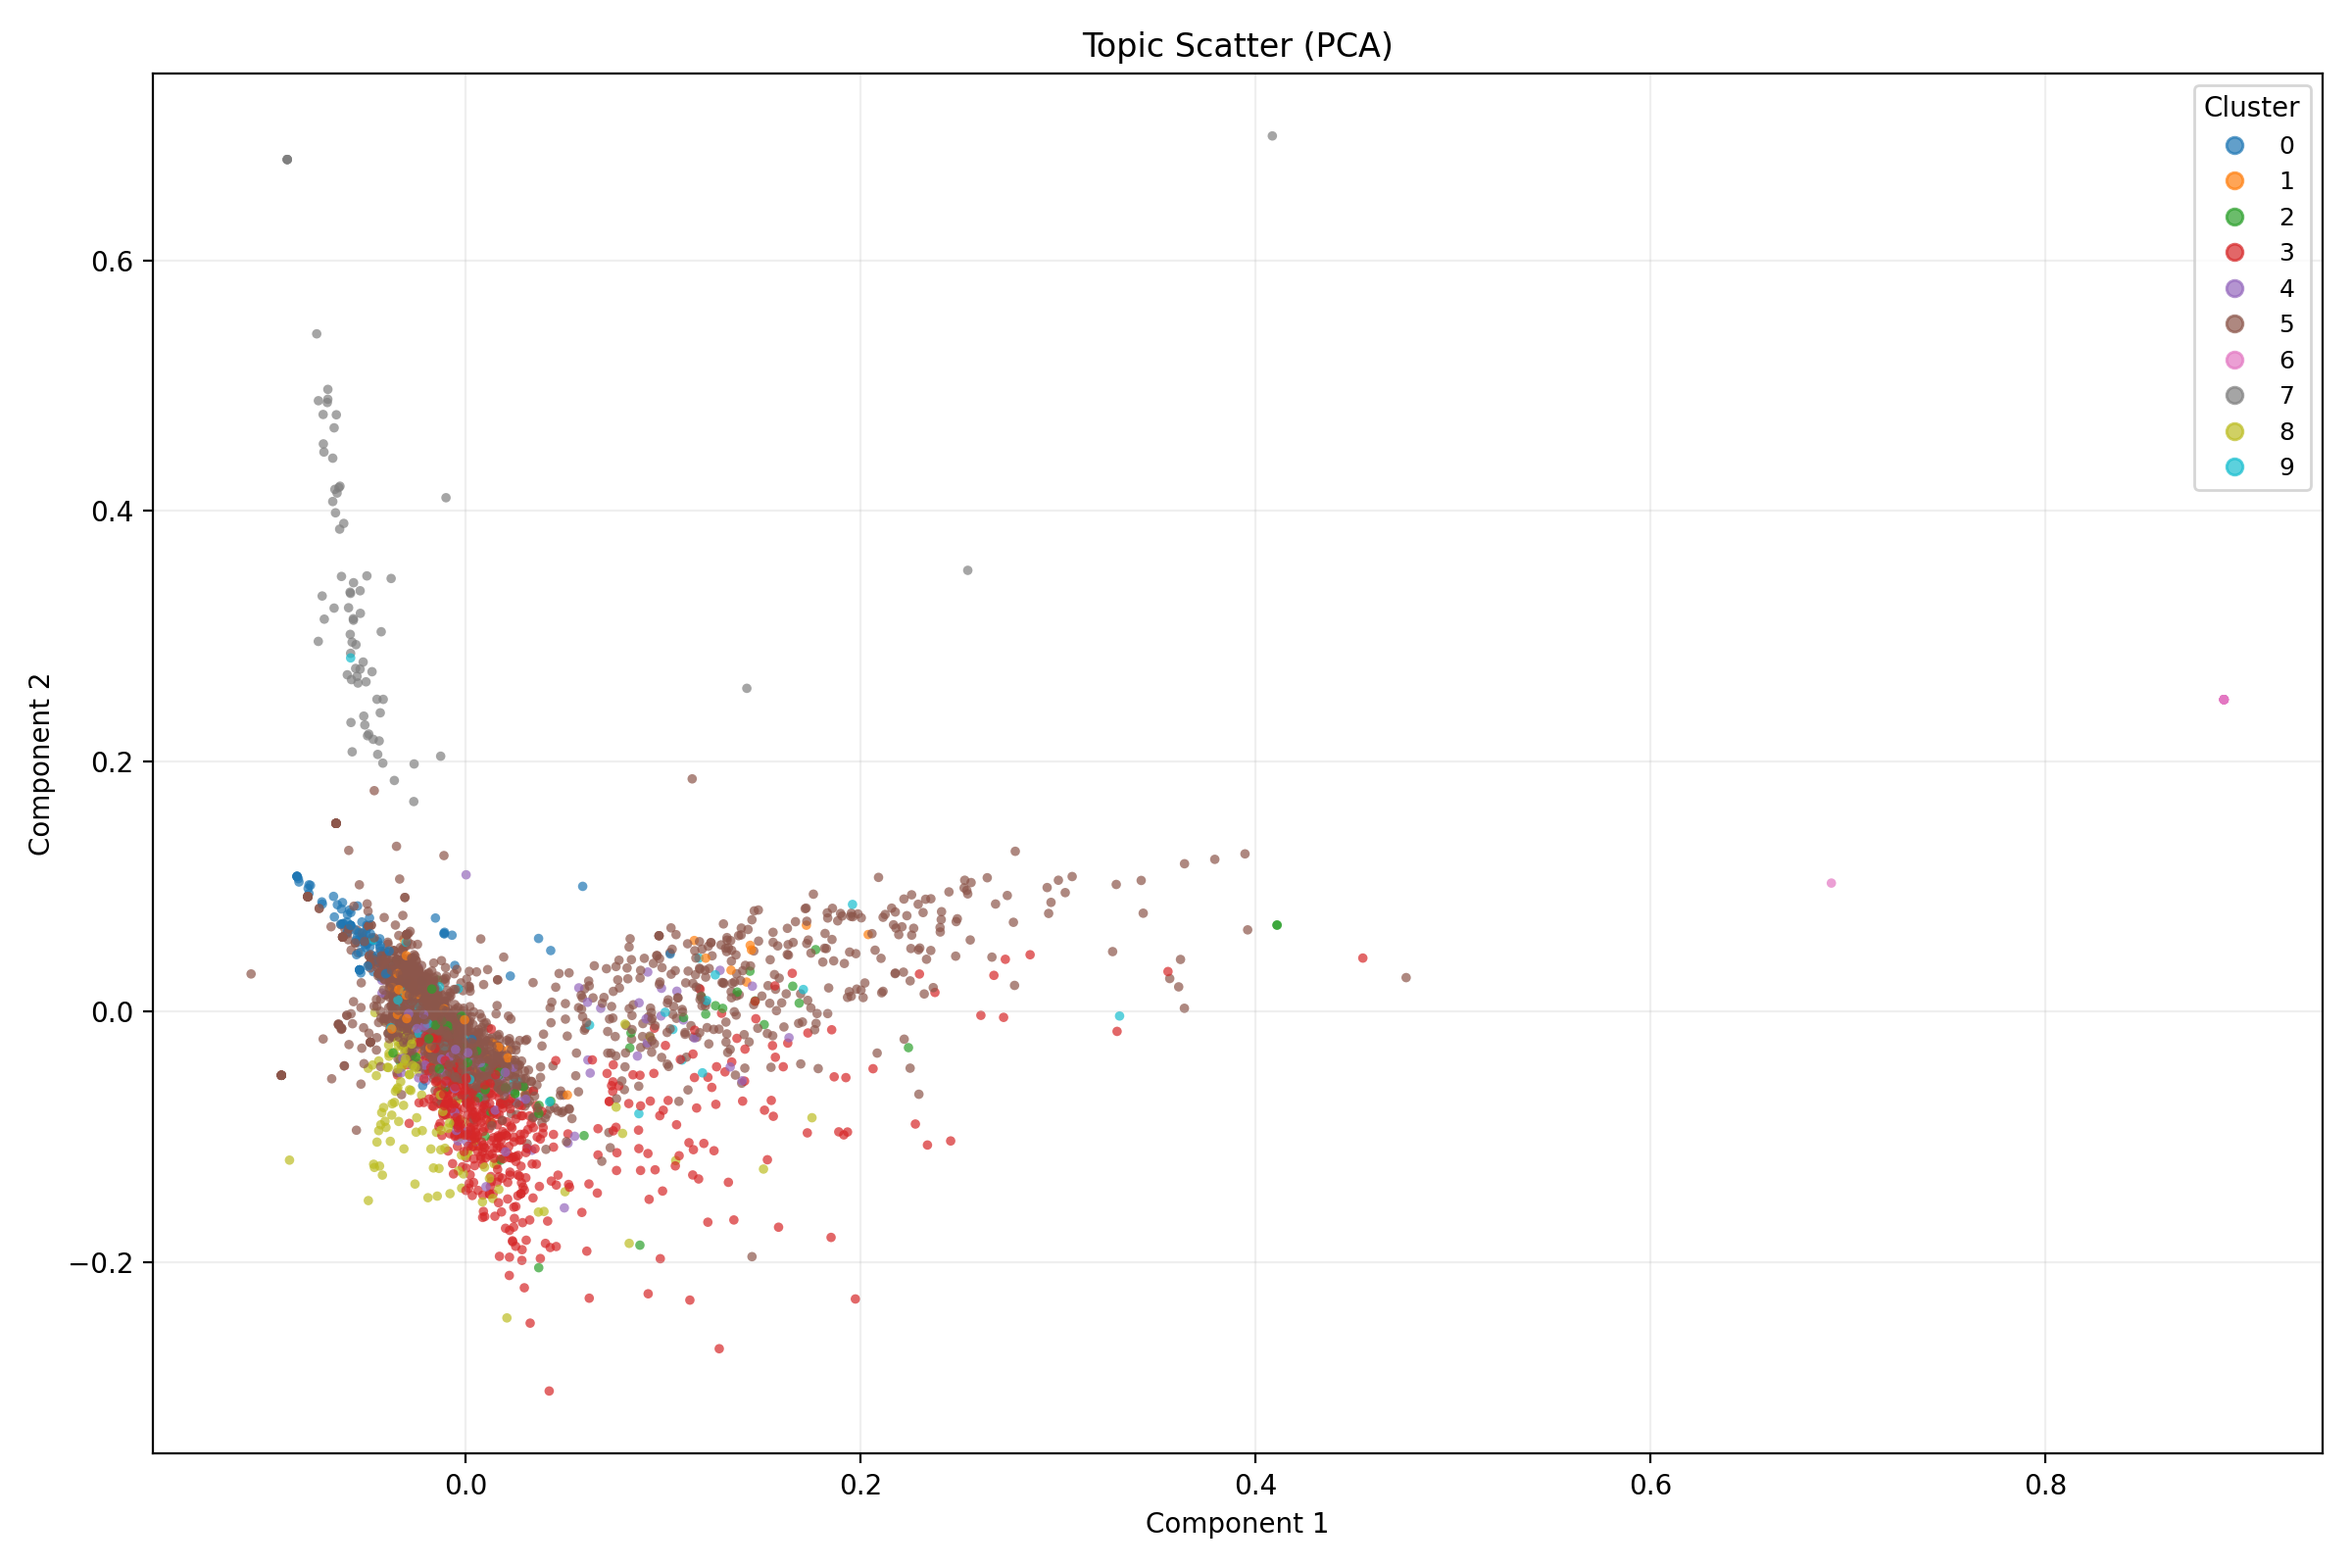
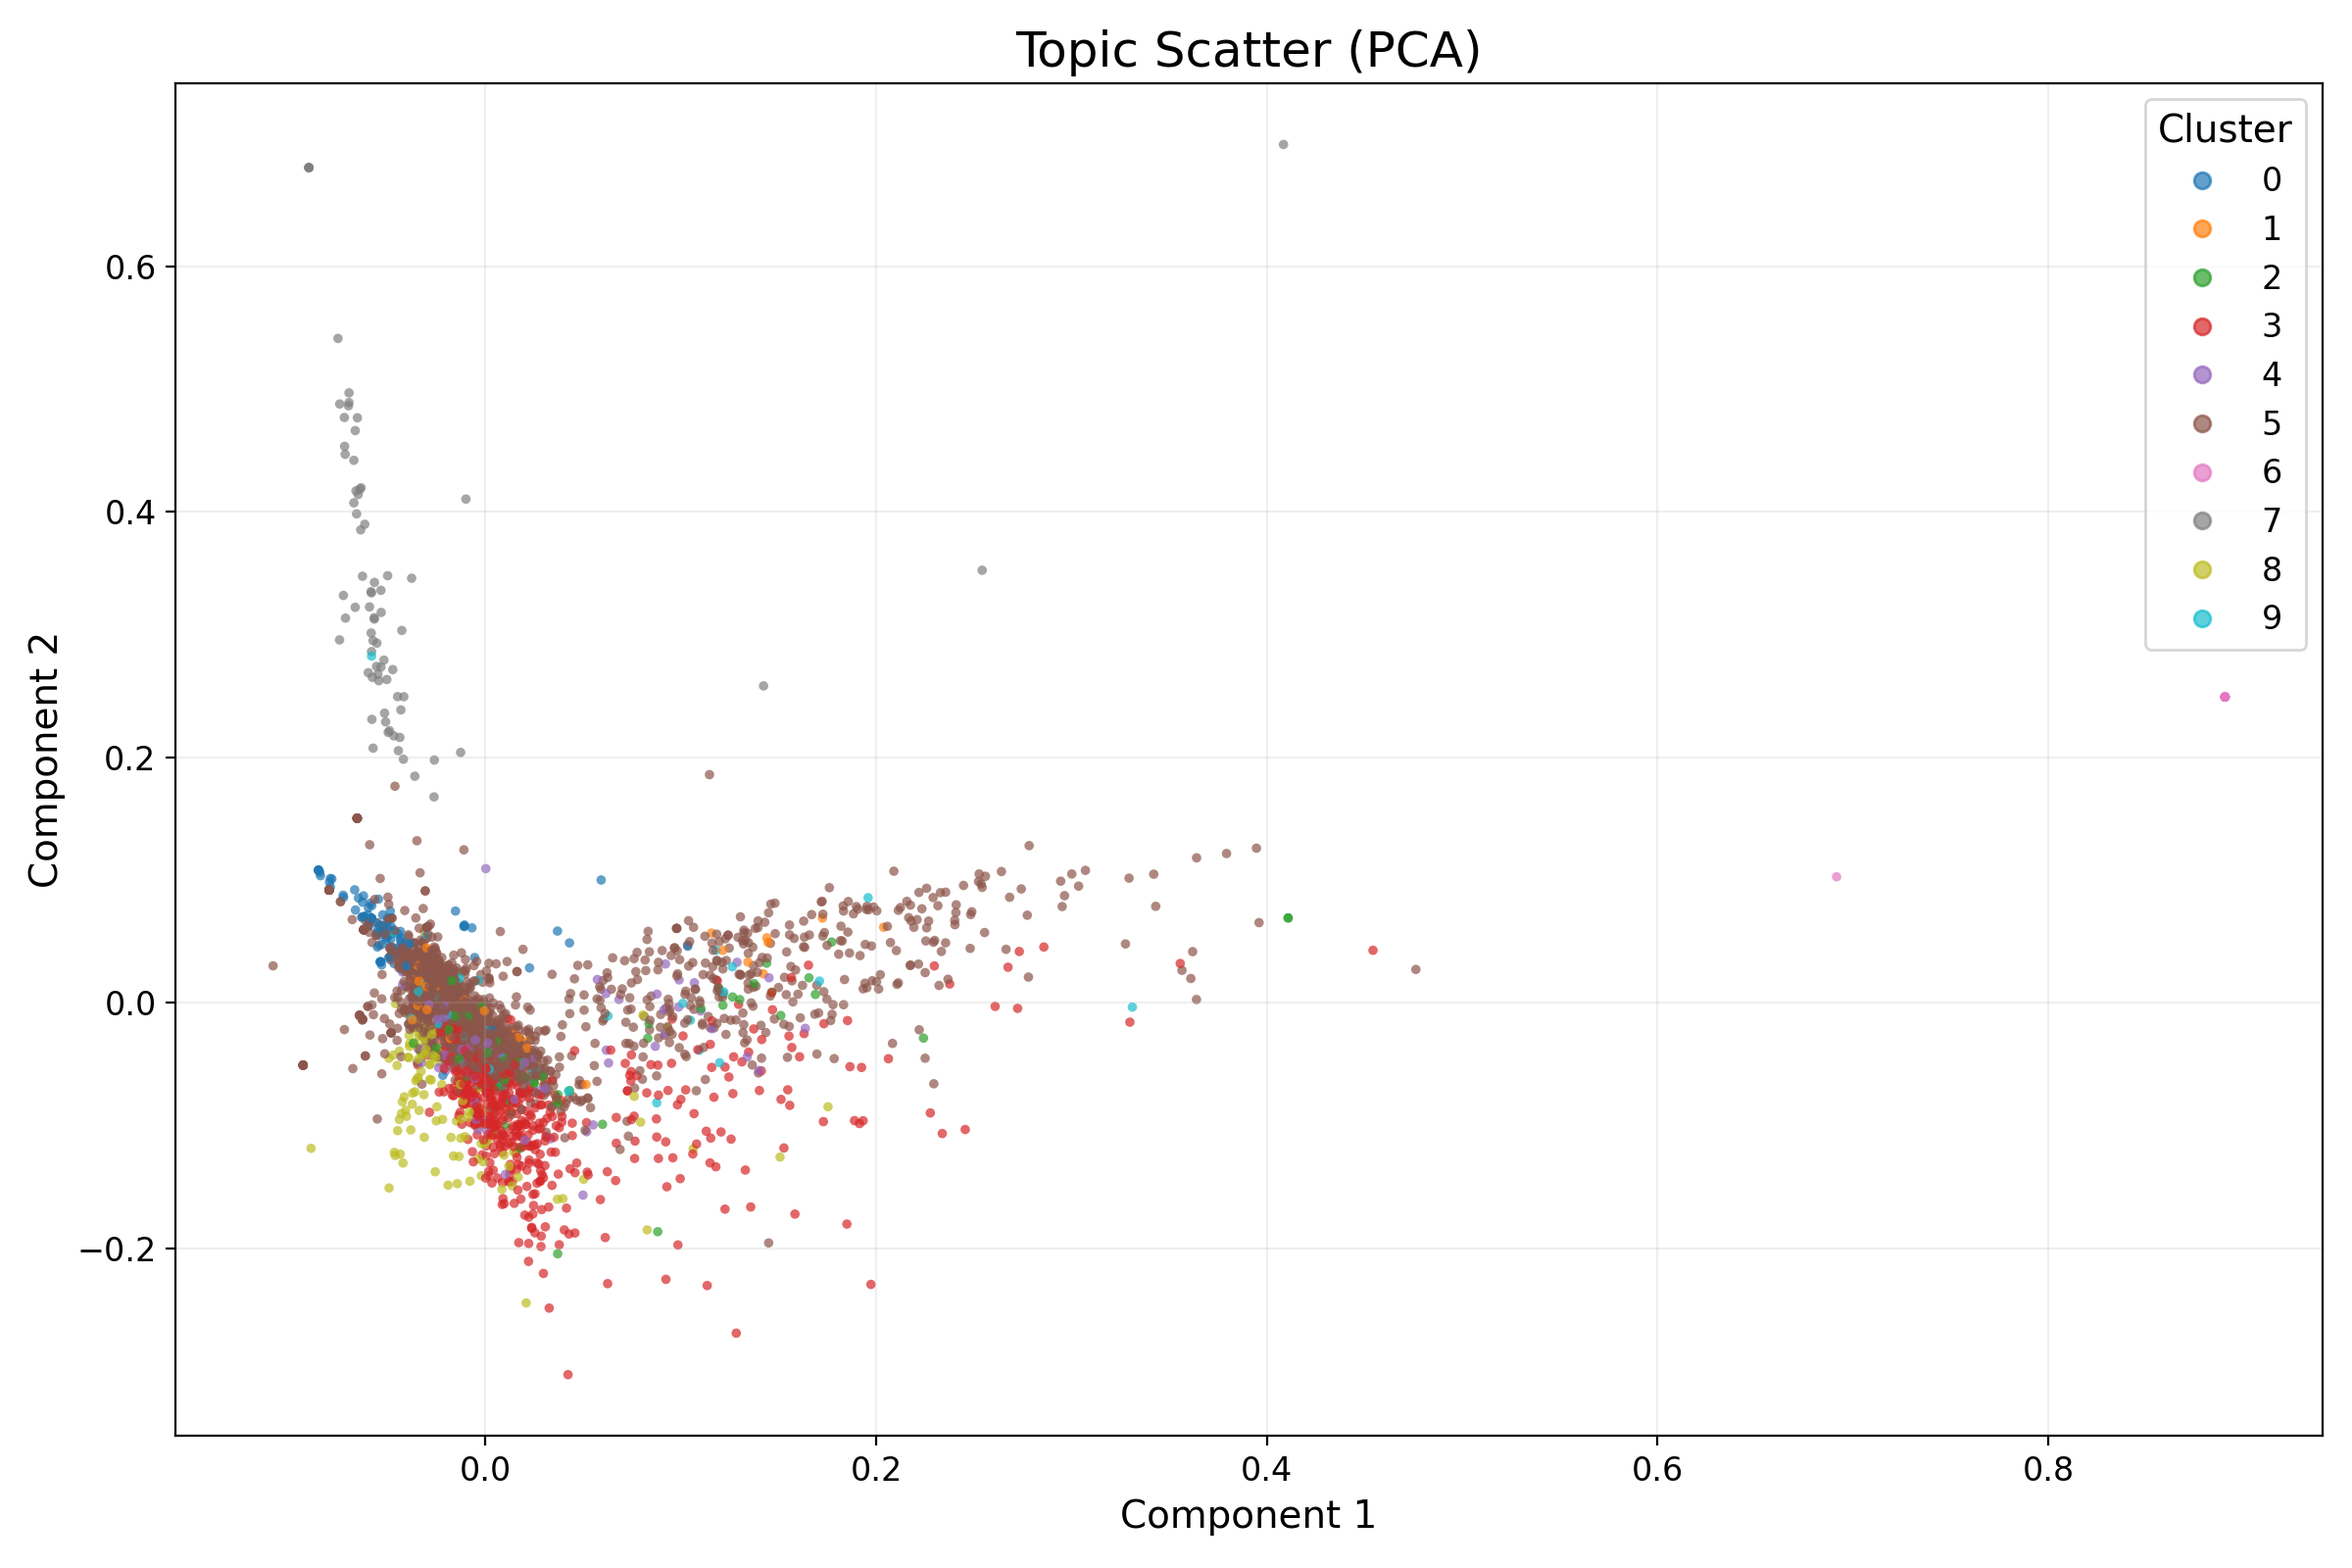
topic scatter

diff --git a/compute_topic_scatter_data.py b/compute_topic_scatter_data.py
@@ -9,7 +9,6 @@ import argparse
 import json
 from pathlib import Path
 
-import numpy as np
 import pandas as pd
 from sklearn.cluster import KMeans
 from sklearn.decomposition import PCA
@@ -48,6 +47,12 @@ def parse_args() -> argparse.Namespace:
         type=int,
         default=5000,
         help="Maximum TF-IDF features (default: 5000).",
+    )
+    parser.add_argument(
+        "--top-terms",
+        type=int,
+        default=10,
+        help="Number of top-weighted terms to display per PCA component (default: 10).",
     )
     return parser.parse_args()
 
@@ -92,6 +97,21 @@ def collect_posts(file_path: Path) -> pd.DataFrame:
     return pd.DataFrame(rows)
 
 
+def describe_components(
+    pca_model: PCA, feature_names, top_terms: int
+) -> None:
+    top_terms = max(1, top_terms)
+    for idx, component in enumerate(pca_model.components_[:2], start=1):
+        sorted_idx = component.argsort()
+        top_pos = sorted_idx[-top_terms:][::-1]
+        top_neg = sorted_idx[:top_terms]
+        terms_pos = [feature_names[i] for i in top_pos]
+        terms_neg = [feature_names[i] for i in top_neg]
+        print(f"PCA component {idx}:")
+        print("  High positive terms:", ", ".join(terms_pos))
+        print("  High negative terms:", ", ".join(terms_neg))
+
+
 def main() -> None:
     args = parse_args()
     if not args.submission_file.exists():
@@ -111,9 +131,11 @@ def main() -> None:
         min_df=2,
     )
     tfidf_matrix = vectorizer.fit_transform(df["text"])
+    feature_names = vectorizer.get_feature_names_out()
 
     pca = PCA(n_components=min(50, tfidf_matrix.shape[1]))
     dense_vectors = pca.fit_transform(tfidf_matrix.toarray())
+    describe_components(pca, feature_names, args.top_terms)
 
     clusterer = KMeans(n_clusters=args.clusters, random_state=42, n_init="auto")
     cluster_labels = clusterer.fit_predict(dense_vectors)

diff --git a/plot_topic_scatter.py b/plot_topic_scatter.py
@@ -80,13 +80,14 @@ def plot_scatter(df: pd.DataFrame, coords: np.ndarray, output_path: Path, title:
         s=12,
         edgecolor="none",
     )
-    ax.set_title(title)
-    ax.set_xlabel("Component 1")
-    ax.set_ylabel("Component 2")
+    ax.set_title(title, fontsize=18)
+    ax.set_xlabel("Component 1", fontsize=14)
+    ax.set_ylabel("Component 2", fontsize=14)
+    ax.tick_params(axis="both", which="major", labelsize=12)
     ax.grid(alpha=0.2)
 
     handles, labels = scatter.legend_elements(num=max(df["cluster"].nunique(), 1))
-    ax.legend(handles, labels, title="Cluster", loc="best", fontsize=9)
+    ax.legend(handles, labels, title="Cluster", loc="best", fontsize=12, title_fontsize=14)
 
     plt.tight_layout()
     output_path.parent.mkdir(parents=True, exist_ok=True)
